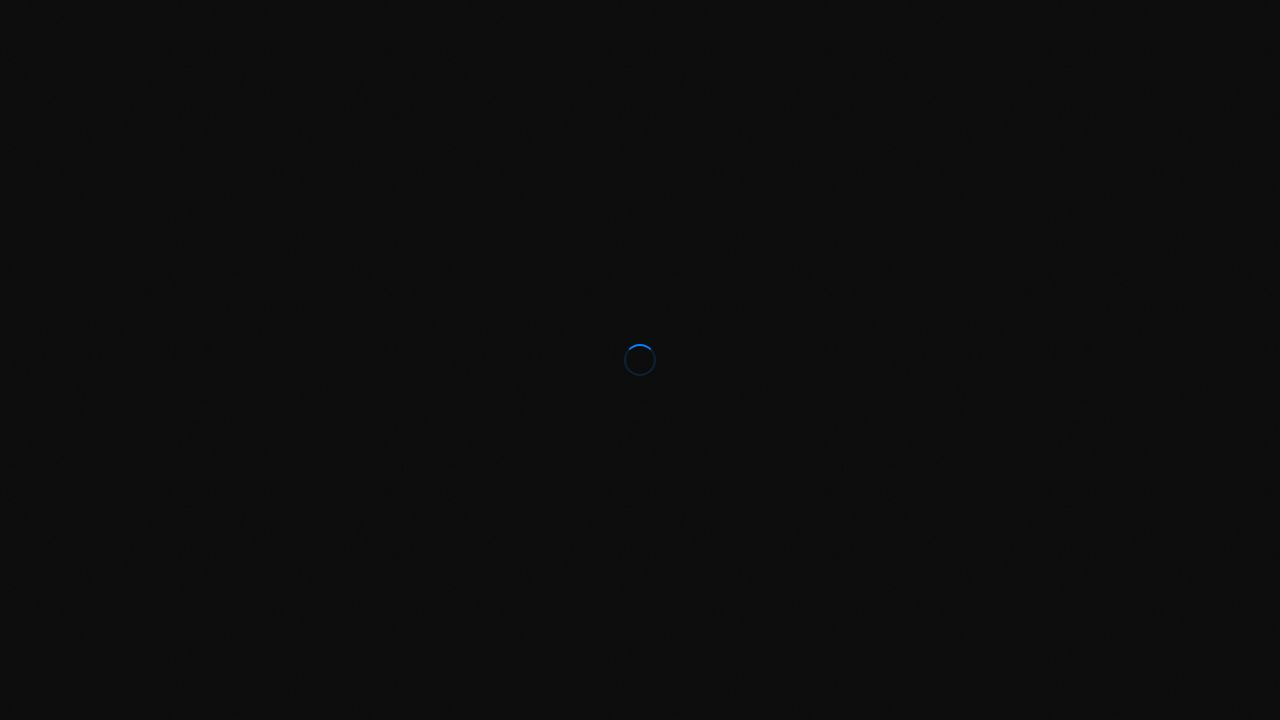
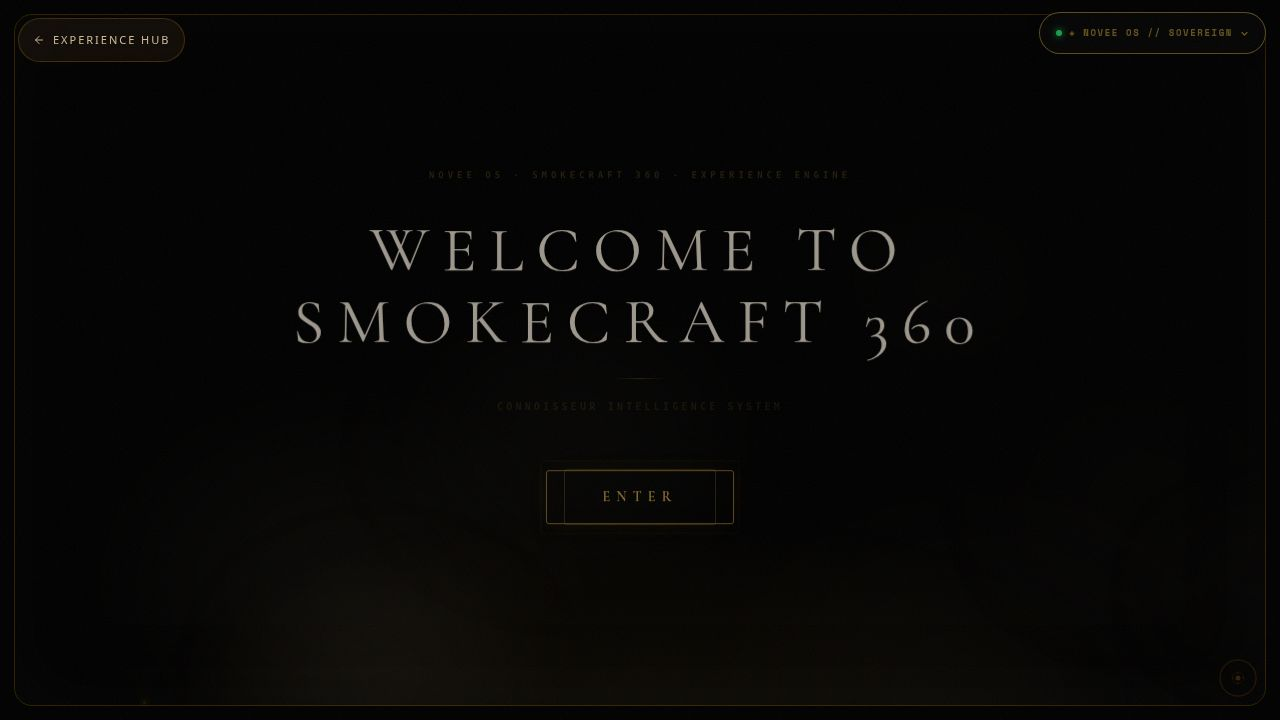
Update branding across the entire application to NOVEE OS
Replace all instances of "AXIOM OS" with "NOVEE OS" in code comments, log messages, and email content across the API server and related modules.

Replit-Commit-Author: Agent
Replit-Commit-Session-Id: af94999e-9b1c-487c-b002-483a1d440a7e
Replit-Commit-Checkpoint-Type: full_checkpoint
Replit-Commit-Event-Id: f76474c5-ab7d-4601-add8-fa68b7a4c63d
Replit-Commit-Screenshot-Url: https://storage.googleapis.com/screenshot-production-us-central1/98d3675d-7059-4ae2-8c4e-d75d3f744b30/af94999e-9b1c-487c-b002-483a1d440a7e/disK1dj
Replit-Helium-Checkpoint-Created: true

diff --git a/artifacts/api-server/src/routes/artisanOrders.ts b/artifacts/api-server/src/routes/artisanOrders.ts
@@ -76,7 +76,7 @@ router.post("/artisan-orders", async (req, res) => {
 
   const result = await sendEmail({
     to:      "[email redacted]",
-    subject: `◈ AXIOM OS — ${CRAFT_LABELS[order.craft] ?? "Commission"} ${orderId}`,
+    subject: `◈ NOVEE OS — ${CRAFT_LABELS[order.craft] ?? "Commission"} ${orderId}`,
     html:    buildEmail({ ...order, orderId, ts }),
   });
 
@@ -147,7 +147,7 @@ function buildEmail(o: {
       <div style="display:inline-block;background:#D4AF3714;border:1px solid #D4AF3770;
                   color:#D4AF37;font-size:9px;letter-spacing:.24em;
                   padding:6px 18px;border-radius:999px">
-        ◈ AXIOM OS · ${o.craft.toUpperCase()}CRAFT 360
+        ◈ NOVEE OS · ${o.craft.toUpperCase()}CRAFT 360
       </div>
       <div style="color:#F5F2ED;font-size:24px;font-weight:300;letter-spacing:.2em;
                   text-transform:uppercase;margin:18px 0 4px">
@@ -180,7 +180,7 @@ function buildEmail(o: {
     <!-- Footer -->
     <div style="margin-top:36px;text-align:center;
                 color:#D4AF3730;font-size:8px;letter-spacing:.16em">
-      AXIOM OS · MASTER ARTISAN BRIDGE · [email redacted]
+      NOVEE OS · MASTER ARTISAN BRIDGE · [email redacted]
     </div>
   </div>
 </body>

diff --git a/artifacts/api-server/src/services/runtimeActivation.ts b/artifacts/api-server/src/services/runtimeActivation.ts
@@ -1,5 +1,5 @@
 /**
- * runtimeActivation.ts — AXIOM OS Runtime Activation Service
+ * runtimeActivation.ts — NOVEE OS Runtime Activation Service
  *
  * Runs structured health checks across all subsystems at boot time.
  * Caches a structured ActivationReport; exposed via GET /api/axiom/activation/status.
@@ -119,7 +119,7 @@ export class RuntimeActivationService {
   }
 
   static async run(): Promise<ActivationReport> {
-    logger.info("AXIOM OS — Runtime Activation starting");
+    logger.info("NOVEE OS — Runtime Activation starting");
 
     const checks = await Promise.all([
 
@@ -426,7 +426,7 @@ export class RuntimeActivationService {
 
     logger.info(
       { overallStatus, activeCount, degradedCount, offlineCount },
-      "AXIOM OS — Runtime Activation complete",
+      "NOVEE OS — Runtime Activation complete",
     );
 
     axiomBus.emitSignal("TENANT_PROVISIONED", {

diff --git a/artifacts/api-server/src/routes/sovereignOrder.ts b/artifacts/api-server/src/routes/sovereignOrder.ts
@@ -119,7 +119,7 @@ function buildEmail(o: {
       <div style="display:inline-block;background:#D4AF3714;border:1px solid #D4AF3770;
                   color:#D4AF37;font-size:9px;letter-spacing:.24em;
                   padding:6px 18px;border-radius:999px">
-        ◈ AXIOM OS · SOVEREIGN ORDER
+        ◈ NOVEE OS · SOVEREIGN ORDER
       </div>
       <div style="color:#F5F2ED;font-size:24px;font-weight:300;letter-spacing:.2em;
                   text-transform:uppercase;margin:18px 0 4px">
@@ -167,7 +167,7 @@ function buildEmail(o: {
     <!-- Footer -->
     <div style="margin-top:36px;text-align:center;
                 color:#D4AF3730;font-size:8px;letter-spacing:.16em">
-      AXIOM OS · SOVEREIGN ORDER GATEWAY · [email redacted]
+      NOVEE OS · SOVEREIGN ORDER GATEWAY · [email redacted]
     </div>
   </div>
 </body>

diff --git a/artifacts/api-server/src/app.ts b/artifacts/api-server/src/app.ts
@@ -571,7 +571,7 @@ if (process.env["NODE_ENV"] !== "test") {
   Promise.all([
     initProductionIndexes(),
     RuntimeActivationService.run(),
-  ]).catch(err => logger.error({ err }, "AXIOM OS — startup hardening failed"));
+  ]).catch(err => logger.error({ err }, "NOVEE OS — startup hardening failed"));
 }
 
 // ── 404 + global error handler ────────────────────────────────────────────────

diff --git a/artifacts/api-server/src/lib/neuralBridge.ts b/artifacts/api-server/src/lib/neuralBridge.ts
@@ -1,7 +1,7 @@
 /**
  * neuralBridge.ts — Cross-Engine Neural Bridge
  *
- * The Neural Bridge is the real-time pub-sub spine of Axiom OS.
+ * The Neural Bridge is the real-time pub-sub spine of NOVEE OS.
  * When a guest interacts (swipe order, enrollment, craft session), this module
  * fans out to all 4 engines in parallel, then broadcasts every result via
  * Socket.io so owner dashboards and the kiosk UI update within milliseconds.

diff --git a/artifacts/api-server/src/routes/guestReturn.ts b/artifacts/api-server/src/routes/guestReturn.ts
@@ -8,7 +8,7 @@
  *       is the guest's permanent cross-venue credential.
  *
  * This is the "You Belong Here" moment: a returning guest walks into any
- * Axiom OS venue, enters their last name and phone digits, and their entire
+ * NOVEE OS venue, enters their last name and phone digits, and their entire
  * Mastery history, Mentor, and Golden Box progress loads instantly.
  */
 

diff --git a/artifacts/api-server/src/routes/investorDemo.ts b/artifacts/api-server/src/routes/investorDemo.ts
@@ -1,5 +1,5 @@
 /**
- * Investor Demo API — Axiom OS Expansion & Valuation Engine
+ * Investor Demo API — NOVEE OS Expansion & Valuation Engine
  *
  * GET /api/investor-demo/snapshot
  *   Live DB counts → full valuation + revenue streams + scale projections

diff --git a/artifacts/api-server/src/routes/onboarding.ts b/artifacts/api-server/src/routes/onboarding.ts
@@ -141,7 +141,7 @@ async function seedVenueDefaults(
 
   // 4. Seed welcome + per-craft starter campaigns
   const campaignSeeds: Array<{ name: string; type: CampaignType; xpMultiplier: number; rewardBonus: number }> = [
-    { name: "Welcome to Axiom OS",  type: "GENERAL", xpMultiplier: 1.5, rewardBonus: 10  },
+    { name: "Welcome to NOVEE OS",  type: "GENERAL", xpMultiplier: 1.5, rewardBonus: 10  },
     ...crafts.map(craft => ({
       name:         `${craft.charAt(0).toUpperCase() + craft.slice(1)}Craft Launch Promotion`,
       type:         "GENERAL" as CampaignType,

diff --git a/artifacts/api-server/src/routes/trainingAccounts.ts b/artifacts/api-server/src/routes/trainingAccounts.ts
@@ -17,7 +17,7 @@ const TRAINING_ACCOUNTS = [
     role:        "venue_owner",
     roleLabel:   "Venue Owner",
     name:        "Demo Owner",
-    description: "Full access to all Axiom OS modules. Use for owner training and investor demos.",
+    description: "Full access to all NOVEE OS modules. Use for owner training and investor demos.",
     color:       "#d4af37",
   },
   {

diff --git a/artifacts/api-server/src/services/enterpriseExecutionEngine.ts b/artifacts/api-server/src/services/enterpriseExecutionEngine.ts
@@ -1,5 +1,5 @@
 /**
- * enterpriseExecutionEngine.ts — AXIOM OS Enterprise Execution Backbone.
+ * enterpriseExecutionEngine.ts — NOVEE OS Enterprise Execution Backbone.
  *
  * Consolidated single-file module providing four engines not covered by the
  * individual revenue/ service classes:

diff --git a/artifacts/api-server/src/services/investorDemoService.ts b/artifacts/api-server/src/services/investorDemoService.ts
@@ -1,5 +1,5 @@
 /**
- * InvestorDemoEngine — Axiom OS Expansion & Valuation Engine
+ * InvestorDemoEngine — NOVEE OS Expansion & Valuation Engine
  *
  * Two derivation functions, faithful to the spec:
  *

diff --git a/artifacts/api-server/src/services/productionHardening.ts b/artifacts/api-server/src/services/productionHardening.ts
@@ -1,5 +1,5 @@
 /**
- * productionHardening.ts — AXIOM OS Production Hardening Layer
+ * productionHardening.ts — NOVEE OS Production Hardening Layer
  *
  * Provides:
  *   initProductionIndexes()  — CREATE INDEX IF NOT EXISTS on all high-traffic tables